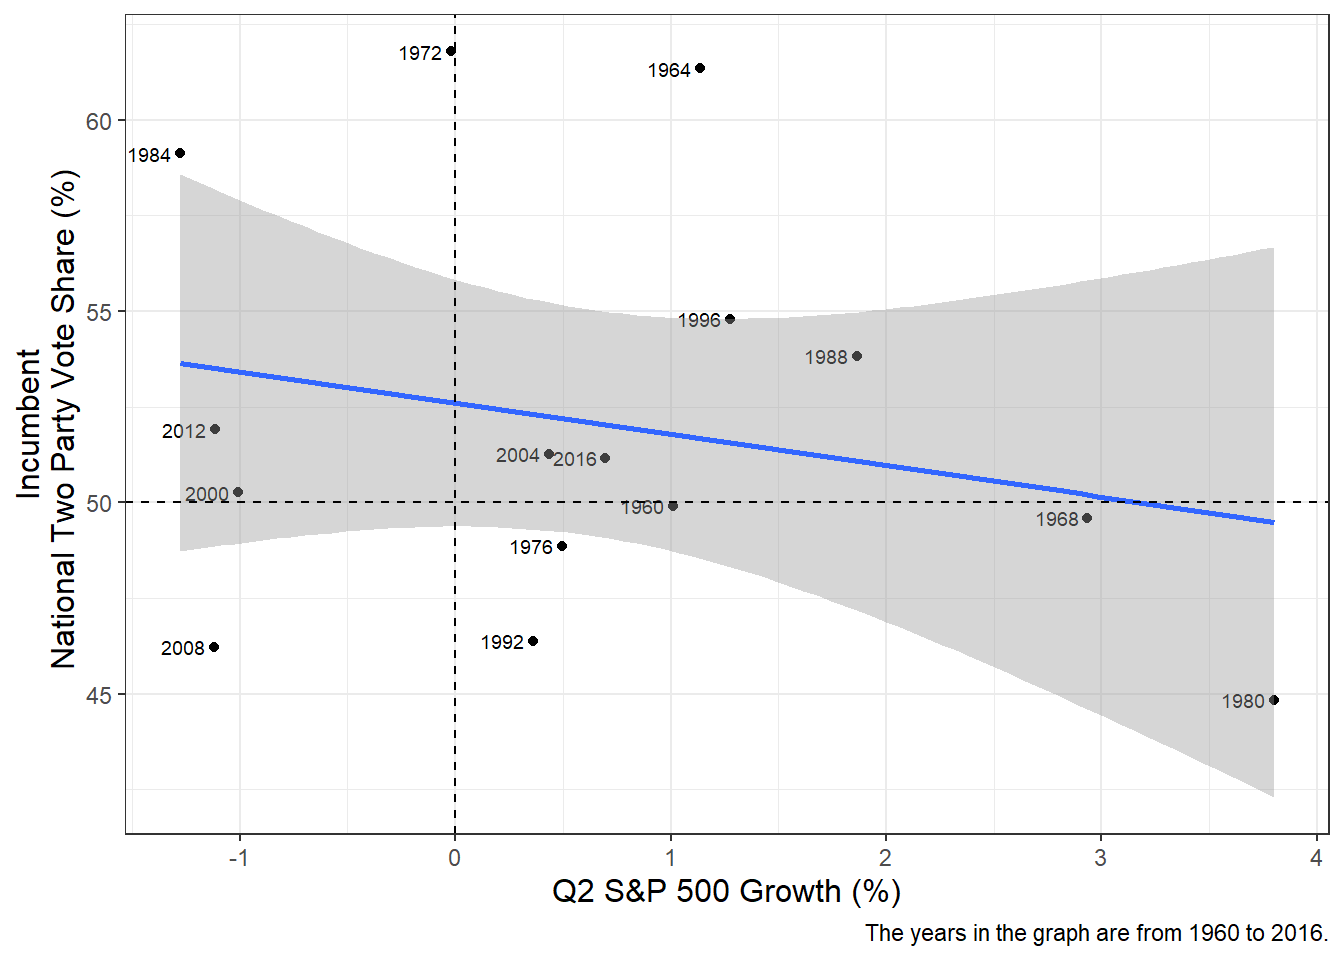
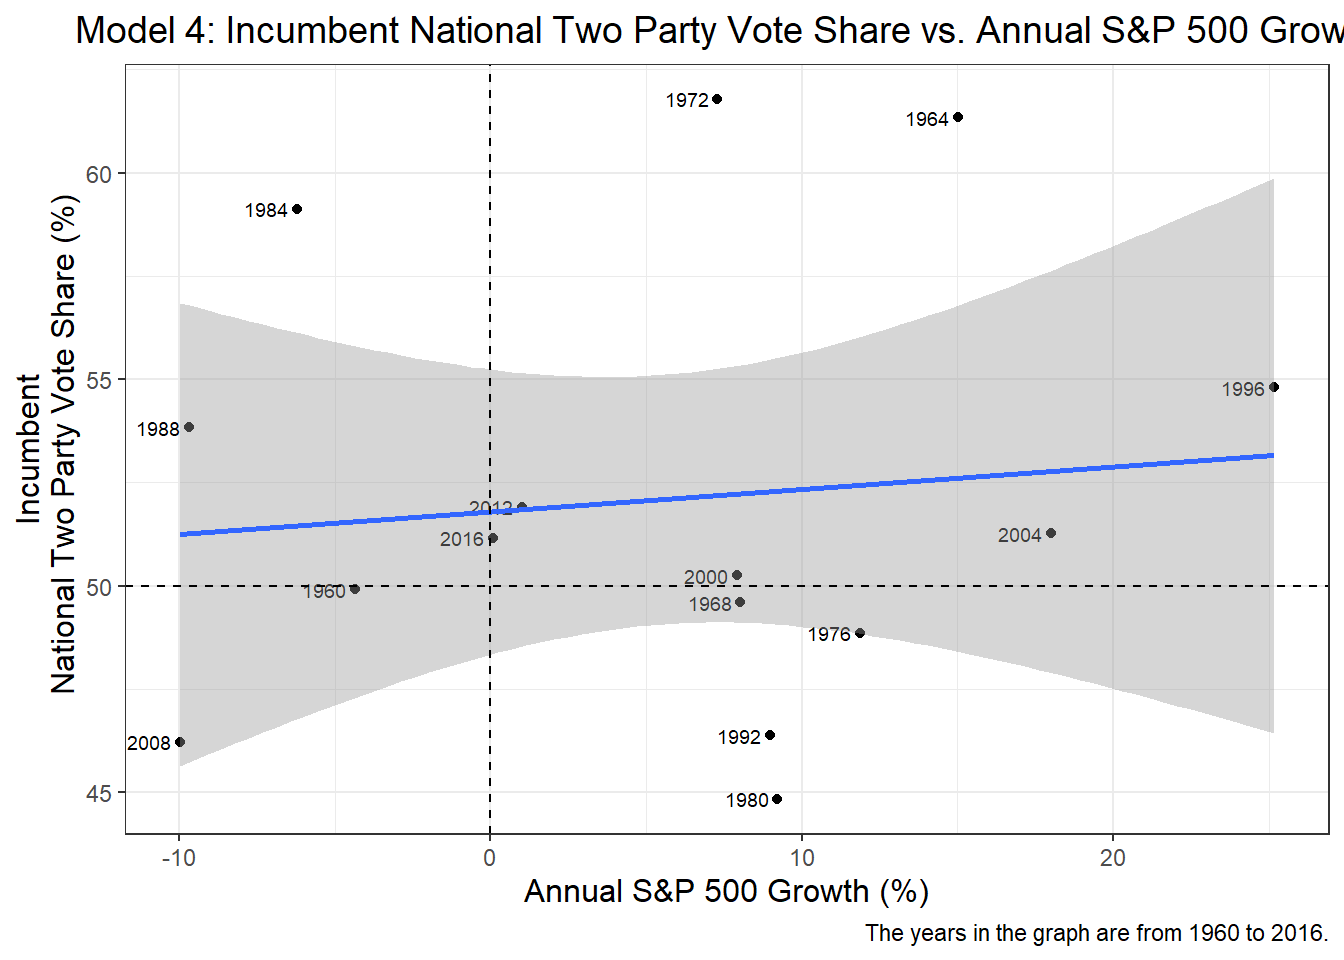
finished post 2

diff --git a/public/post/2024/09/16/post-2-modeling-using-the-economy/index.html b/public/post/2024/09/16/post-2-modeling-using-the-economy/index.html
@@ -35,9 +35,16 @@
 
 <main>
 <h1 id="introduction">Introduction</h1>
-<p>Data Limitations</p>
+<p>The economy is often cited as a core &lsquo;fundamental&rsquo; in predicting election outcomes. A strong economy typically suggests that the incumbent party is likely to win and vice versa. In some elections, like in 1980, where rampant inflation—significantly rising gas prices—dominated, it was clear that incumbent Jimmy Carter would lose due to the weak economy. However, in other elections, such as 2012 or 2016, it was less clear whether the economy was strong enough to predict an incumbent party victory.</p>
+<p>Voters&rsquo; interactions with the economy can influence their votes in various ways. Some may be &lsquo;pocketbook voters,&rsquo; supporting incumbents when they are personally better off. Others may focus on macroeconomic issues, such as GDP growth or unemployment rates, that may not directly affect them but could still influence their vote through sociotropic considerations.</p>
+<p>It is also unclear which economic timeframe is most important in shaping voters&rsquo; decisions. Does the economy’s performance right before the election matter most? Or does the entire term or just the year leading up to the election have a greater impact on vote share?</p>
+<p>To explore some of these questions, I created six models that examine economic factors relative to incumbent two-party vote share. The first two models measure the percent change in real disposable personal income (RDPI), one of the most common metrics for predicting elections. The first model looks at the increase from the end of Quarter 1 to the end of Quarter 2 in an election year. Typically, data from Quarter 2 to Quarter 3 would be preferred. Still, because I aim to use this data to predict the 2024 election outcome, I am using Quarter 2 as the latest available data to match current 2024 figures. The second RDPI model looks at percent growth over the course of a year, from the end of Q2 one year before the election to the end of Q2 in the election year. For example, the first point in the dataset measures growth from Q2 1959 to Q2 1960.</p>
+<p>In addition to RDPI, I developed two models each for quarterly and annual percent growth in unemployment and the S&amp;P 500. These factors offer a scale of how much voters care about personal wealth versus macroeconomic health. RDPI is theoretically the most personally relevant, the S&amp;P 500 falls somewhere in between, and unemployment most represents sociotropic concerns.</p>
+<p>Before diving into the models, I want to clarify that I used the same years for each dataset, starting from 1960—the first election with complete data. I also excluded 2020 from all models due to the massive Q2 economic decline caused by the COVID-19 pandemic, which is an anomaly that wouldn’t be expected in a non-pandemic election year. While these limitations certainly affect the results, I believe they provide the most representative picture of an average presidential election.</p>
 <h1 id="real-disposable-personal-income-growth">Real Disposable Personal Income Growth</h1>
 <img src="https://example.org/post/2024/09/16/post-2-modeling-using-the-economy/index_files/figure-html/unnamed-chunk-6-1.png" width="672" />
+<img src="https://example.org/post/2024/09/16/post-2-modeling-using-the-economy/index_files/figure-html/unnamed-chunk-7-1.png" width="672" />
+<p>Both the annual and quarterly RDPI growth models show a similar trend, with a slightly positive slope, indicating a direct relationship between RDPI growth and election outcomes. A cursory glance suggests that the annual model has a larger coefficient, which is confirmed by the data below (1.49 vs. 0.7). Interestingly, the annual model also has a significantly lower p-value and a higher R-squared value (0.374 vs. 0.22 for the quarterly model). These figures suggest that the annual model is a better predictor than the quarterly model, as it explains more of the variance in the election outcome. However, with an R-squared of 0.374, it is clear that neither model accounts for enough of the election dynamics to serve as a strong standalone predictor.</p>
 <table style="border-collapse:collapse; border:none;">
 <caption style="font-weight: bold; text-align:left;">Regression Table for Quarterly RDPI Growth (1960-2016)</caption>
 <tr>
@@ -75,7 +82,6 @@
 <td style=" padding:0.2cm; text-align:left; vertical-align:top; padding-top:0.1cm; padding-bottom:0.1cm; text-align:left;" colspan="4">0.220 / 0.160</td>
 </tr>
 </table>
-<img src="https://example.org/post/2024/09/16/post-2-modeling-using-the-economy/index_files/figure-html/unnamed-chunk-8-1.png" width="672" />
 <table style="border-collapse:collapse; border:none;">
 <caption style="font-weight: bold; text-align:left;">Regression Table for Annual RDPI Growth (1960-2016)</caption>
 <tr>
@@ -113,34 +119,12 @@
 <td style=" padding:0.2cm; text-align:left; vertical-align:top; padding-top:0.1cm; padding-bottom:0.1cm; text-align:left;" colspan="4">0.374 / 0.325</td>
 </tr>
 </table>
-<p>Table: <span id="tab:unnamed-chunk-10"></span>Table 1: <strong>Predicted 2024 Incumbent
-National Popular Two Party Vote Share based on RDPI Growth</strong></p>
-<table>
-  <thead>
-      <tr>
-          <th style="text-align: left">Independent Variable</th>
-          <th style="text-align: right">Predicted Two Party Vote Share</th>
-          <th style="text-align: right">Lower Bound (95% CI)</th>
-          <th style="text-align: right">Upper Bound (95% CI)</th>
-      </tr>
-  </thead>
-  <tbody>
-      <tr>
-          <td style="text-align: left">Quarterly RDPI Growth</td>
-          <td style="text-align: right">49.91</td>
-          <td style="text-align: right">38.90</td>
-          <td style="text-align: right">60.91</td>
-      </tr>
-      <tr>
-          <td style="text-align: left">Annual RDPI Growth</td>
-          <td style="text-align: right">47.88</td>
-          <td style="text-align: right">37.73</td>
-          <td style="text-align: right">58.03</td>
-      </tr>
-  </tbody>
-</table>
 <h1 id="sp-500-growth">S&amp;P 500 Growth</h1>
+<img src="https://example.org/post/2024/09/16/post-2-modeling-using-the-economy/index_files/figure-html/unnamed-chunk-10-1.png" width="672" />
 <img src="https://example.org/post/2024/09/16/post-2-modeling-using-the-economy/index_files/figure-html/unnamed-chunk-11-1.png" width="672" />
+<p>These graphs were quite unexpected for me. I initially thought the S&amp;P 500 would be a strong indicator of how most Americans perceive the economy, given that it is reported daily by nearly every news source and many Americans have a significant personal stake in its performance, especially through retirement savings tied to the S&amp;P 500. However, the nearly flat lines in both graphs and the large standard errors indicate that the S&amp;P 500 is a poor predictor of election outcomes.</p>
+<p>Looking at the tables, the quarterly growth shows a slight inverse relationship of -0.82, which doesn&rsquo;t make much sense, though this result can largely be disregarded due to the high p-value and the low R-squared of 0.053. The annual model shows almost no relationship between two-party vote share and annual S&amp;P 500 growth, with similarly large p-values and inconsequential R-squared values.</p>
+<p>Overall, while the S&amp;P 500 may have value in models that aggregate multiple economic variables, it is clear that it performs poorly as a standalone predictor of election outcomes.</p>
 <table style="border-collapse:collapse; border:none;">
 <caption style="font-weight: bold; text-align:left;">Regression Table for Quarterly S&P 500 Growth (1960-2016)</caption>
 <tr>
@@ -178,7 +162,6 @@ National Popular Two Party Vote Share based on RDPI Growth</strong></p>
 <td style=" padding:0.2cm; text-align:left; vertical-align:top; padding-top:0.1cm; padding-bottom:0.1cm; text-align:left;" colspan="4">0.053 / -0.020</td>
 </tr>
 </table>
-<img src="https://example.org/post/2024/09/16/post-2-modeling-using-the-economy/index_files/figure-html/unnamed-chunk-13-1.png" width="672" />
 <table style="border-collapse:collapse; border:none;">
 <caption style="font-weight: bold; text-align:left;">Regression Table for Annual S&P 500 Growth (1960-2016)</caption>
 <tr>
@@ -217,7 +200,10 @@ National Popular Two Party Vote Share based on RDPI Growth</strong></p>
 </tr>
 </table>
 <h1 id="unemployment-growth">Unemployment Growth</h1>
+<img src="https://example.org/post/2024/09/16/post-2-modeling-using-the-economy/index_files/figure-html/unnamed-chunk-14-1.png" width="672" />
 <img src="https://example.org/post/2024/09/16/post-2-modeling-using-the-economy/index_files/figure-html/unnamed-chunk-15-1.png" width="672" />
+<p>Unemployment growth also proved surprising, though for the opposite reason. I chose to focus on unemployment rather than GDP as a test of macroeconomic conditions, since unemployment is typically more frequently reported in the news than GDP, as evidenced by its relevance in Tuesday’s debate. Many Americans who vote based on sociotropic conditions may be more influenced by unemployment than GDP.</p>
+<p>Both graphs show a strong inverse relationship between unemployment growth and two-party vote share. Looking at the tables, we see that a one percent reduction in unemployment is associated with a 0.6 increase in two-party vote share for the incumbent party. The annual model displayed a smaller coefficient of -0.23. Both models were statistically significant at the 0.05 level according to their p-values, and they had fairly strong R-squared values: 0.405 for the quarterly model and 0.38 for the annual model. Quarterly unemployment growth had the highest R-squared value of all six models analyzed.</p>
 <table style="border-collapse:collapse; border:none;">
 <caption style="font-weight: bold; text-align:left;">Regression Table for Quarterly Unemployment Growth (1960-2016)</caption>
 <tr>
@@ -255,7 +241,6 @@ National Popular Two Party Vote Share based on RDPI Growth</strong></p>
 <td style=" padding:0.2cm; text-align:left; vertical-align:top; padding-top:0.1cm; padding-bottom:0.1cm; text-align:left;" colspan="4">0.405 / 0.359</td>
 </tr>
 </table>
-<img src="https://example.org/post/2024/09/16/post-2-modeling-using-the-economy/index_files/figure-html/unnamed-chunk-17-1.png" width="672" />
 <table style="border-collapse:collapse; border:none;">
 <caption style="font-weight: bold; text-align:left;">Regression Table for Annual Unemployment Growth (1960-2016)</caption>
 <tr>
@@ -293,6 +278,34 @@ National Popular Two Party Vote Share based on RDPI Growth</strong></p>
 <td style=" padding:0.2cm; text-align:left; vertical-align:top; padding-top:0.1cm; padding-bottom:0.1cm; text-align:left;" colspan="4">0.380 / 0.332</td>
 </tr>
 </table>
+<h1 id="predictions-and-concluding-thoughts">Predictions and Concluding Thoughts</h1>
+<p>Given its poor in-sample model fit, I decided not to use the S&amp;P 500 as a predictor for the election. All the economic predictors suggest a Donald Trump victory, but at a 95% confidence interval, an extremely wide range of outcomes is possible.</p>
+<p>Table: <span id="tab:unnamed-chunk-18"></span>Table 1: <strong>Predicted 2024 Incumbent
+National Popular Two Party Vote Share based on RDPI Growth</strong></p>
+<table>
+  <thead>
+      <tr>
+          <th style="text-align: left">Independent Variable</th>
+          <th style="text-align: right">Predicted Two Party Vote Share</th>
+          <th style="text-align: right">Lower Bound (95% CI)</th>
+          <th style="text-align: right">Upper Bound (95% CI)</th>
+      </tr>
+  </thead>
+  <tbody>
+      <tr>
+          <td style="text-align: left">Quarterly RDPI Growth</td>
+          <td style="text-align: right">49.91</td>
+          <td style="text-align: right">38.90</td>
+          <td style="text-align: right">60.91</td>
+      </tr>
+      <tr>
+          <td style="text-align: left">Annual RDPI Growth</td>
+          <td style="text-align: right">47.88</td>
+          <td style="text-align: right">37.73</td>
+          <td style="text-align: right">58.03</td>
+      </tr>
+  </tbody>
+</table>
 <p>Table: <span id="tab:unnamed-chunk-19"></span>Table 2: <strong>Predicted 2024 Incumbent
 National Popular Two Party Vote Share based on Unemployment Growth</strong></p>
 <table>
@@ -319,6 +332,7 @@ National Popular Two Party Vote Share based on Unemployment Growth</strong></p>
       </tr>
   </tbody>
 </table>
+<p>Overall, I believe the best approach to using economic predictors is to aggregate multiple variables, such as RDPI growth and unemployment growth, and weigh them accordingly as part of a larger model that also incorporates polling and other fundamentals. It’s clear that no single economic factor is sufficient to predict an election, nor is there a strong preference between factors that affect personal wealth versus macroeconomic conditions. The highest R-squared any of the models achieved as 0.4, meaning around 60% of the variance in elections could not be accounted for. Of course, multicollinearity would be a significant issue in any model using multiple economic factors, so adjustments to account for it would be necessary</p>
 
 </main>
 

diff --git a/public/post/2024/09/09/post-1/index.html b/public/post/2024/09/09/post-1/index.html
@@ -3,7 +3,7 @@
   <head>
     <meta charset="utf-8">
     <meta name="viewport" content="width=device-width, initial-scale=1">
-    <title>Blog Post 1 | A minimal Hugo website</title>
+    <title>Post #1: Defining the Swing States | A minimal Hugo website</title>
     <link rel="stylesheet" href="/css/style.css" />
     <link rel="stylesheet" href="/css/fonts.css" />
     
@@ -28,7 +28,7 @@
     </nav>
 
 <div class="article-meta">
-<h1><span class="title">Blog Post 1</span></h1>
+<h1><span class="title">Post #1: Defining the Swing States</span></h1>
 <h2 class="author">Avi Agarwal</h2>
 <h2 class="date">2024/09/09</h2>
 </div>

diff --git a/public/index.html b/public/index.html
@@ -46,7 +46,7 @@
   
   <li>
     <span class="date">2024/09/09</span>
-    <a href="/post/2024/09/09/post-1/">Blog Post 1</a>
+    <a href="/post/2024/09/09/post-1/">Post #1: Defining the Swing States</a>
   </li>
   
 </ul>

diff --git a/public/post/index.html b/public/post/index.html
@@ -45,7 +45,7 @@
   
   <li>
     <span class="date">2024/09/09</span>
-    <a href="/post/2024/09/09/post-1/">Blog Post 1</a>
+    <a href="/post/2024/09/09/post-1/">Post #1: Defining the Swing States</a>
   </li>
   
 </ul>

diff --git a/content/post/2024-09-16-post-2-modeling-using-the-economy/index.md b/content/post/2024-09-16-post-2-modeling-using-the-economy/index.md
@@ -18,11 +18,28 @@ tags: []
 
 # Introduction
 
-Data Limitations
+The economy is often cited as a core 'fundamental' in predicting election outcomes. A strong economy typically suggests that the incumbent party is likely to win and vice versa. In some elections, like in 1980, where rampant inflation—significantly rising gas prices—dominated, it was clear that incumbent Jimmy Carter would lose due to the weak economy. However, in other elections, such as 2012 or 2016, it was less clear whether the economy was strong enough to predict an incumbent party victory.
+
+Voters' interactions with the economy can influence their votes in various ways. Some may be 'pocketbook voters,' supporting incumbents when they are personally better off. Others may focus on macroeconomic issues, such as GDP growth or unemployment rates, that may not directly affect them but could still influence their vote through sociotropic considerations.
+
+It is also unclear which economic timeframe is most important in shaping voters' decisions. Does the economy’s performance right before the election matter most? Or does the entire term or just the year leading up to the election have a greater impact on vote share?
+
+To explore some of these questions, I created six models that examine economic factors relative to incumbent two-party vote share. The first two models measure the percent change in real disposable personal income (RDPI), one of the most common metrics for predicting elections. The first model looks at the increase from the end of Quarter 1 to the end of Quarter 2 in an election year. Typically, data from Quarter 2 to Quarter 3 would be preferred. Still, because I aim to use this data to predict the 2024 election outcome, I am using Quarter 2 as the latest available data to match current 2024 figures. The second RDPI model looks at percent growth over the course of a year, from the end of Q2 one year before the election to the end of Q2 in the election year. For example, the first point in the dataset measures growth from Q2 1959 to Q2 1960.
+
+In addition to RDPI, I developed two models each for quarterly and annual percent growth in unemployment and the S&P 500. These factors offer a scale of how much voters care about personal wealth versus macroeconomic health. RDPI is theoretically the most personally relevant, the S&P 500 falls somewhere in between, and unemployment most represents sociotropic concerns.
+
+Before diving into the models, I want to clarify that I used the same years for each dataset, starting from 1960—the first election with complete data. I also excluded 2020 from all models due to the massive Q2 economic decline caused by the COVID-19 pandemic, which is an anomaly that wouldn’t be expected in a non-pandemic election year. While these limitations certainly affect the results, I believe they provide the most representative picture of an average presidential election.
+
 
 # Real Disposable Personal Income Growth
 
 <img src="{{< blogdown/postref >}}index_files/figure-html/unnamed-chunk-6-1.png" width="672" />
+
+<img src="{{< blogdown/postref >}}index_files/figure-html/unnamed-chunk-7-1.png" width="672" />
+
+
+Both the annual and quarterly RDPI growth models show a similar trend, with a slightly positive slope, indicating a direct relationship between RDPI growth and election outcomes. A cursory glance suggests that the annual model has a larger coefficient, which is confirmed by the data below (1.49 vs. 0.7). Interestingly, the annual model also has a significantly lower p-value and a higher R-squared value (0.374 vs. 0.22 for the quarterly model). These figures suggest that the annual model is a better predictor than the quarterly model, as it explains more of the variance in the election outcome. However, with an R-squared of 0.374, it is clear that neither model accounts for enough of the election dynamics to serve as a strong standalone predictor.
+
 
 <table style="border-collapse:collapse; border:none;">
 <caption style="font-weight: bold; text-align:left;">Regression Table for Quarterly RDPI Growth (1960-2016)</caption>
@@ -62,14 +79,6 @@ Data Limitations
 </tr>
 
 </table>
-
-
-
-
-
-
-
-<img src="{{< blogdown/postref >}}index_files/figure-html/unnamed-chunk-8-1.png" width="672" />
 
 <table style="border-collapse:collapse; border:none;">
 <caption style="font-weight: bold; text-align:left;">Regression Table for Annual RDPI Growth (1960-2016)</caption>
@@ -117,18 +126,18 @@ Data Limitations
 
 
 
-Table: <span id="tab:unnamed-chunk-10"></span>Table 1: **Predicted 2024 Incumbent
- National Popular Two Party Vote Share based on RDPI Growth**
-
-|Independent Variable  | Predicted Two Party Vote Share| Lower Bound (95% CI)| Upper Bound (95% CI)|
-|:---------------------|------------------------------:|--------------------:|--------------------:|
-|Quarterly RDPI Growth |                          49.91|                38.90|                60.91|
-|Annual RDPI Growth    |                          47.88|                37.73|                58.03|
 
 
 # S&P 500 Growth
-
+<img src="{{< blogdown/postref >}}index_files/figure-html/unnamed-chunk-10-1.png" width="672" />
 <img src="{{< blogdown/postref >}}index_files/figure-html/unnamed-chunk-11-1.png" width="672" />
+
+These graphs were quite unexpected for me. I initially thought the S&P 500 would be a strong indicator of how most Americans perceive the economy, given that it is reported daily by nearly every news source and many Americans have a significant personal stake in its performance, especially through retirement savings tied to the S&P 500. However, the nearly flat lines in both graphs and the large standard errors indicate that the S&P 500 is a poor predictor of election outcomes.
+
+Looking at the tables, the quarterly growth shows a slight inverse relationship of -0.82, which doesn't make much sense, though this result can largely be disregarded due to the high p-value and the low R-squared of 0.053. The annual model shows almost no relationship between two-party vote share and annual S&P 500 growth, with similarly large p-values and inconsequential R-squared values.
+
+Overall, while the S&P 500 may have value in models that aggregate multiple economic variables, it is clear that it performs poorly as a standalone predictor of election outcomes.
+
 
 <table style="border-collapse:collapse; border:none;">
 <caption style="font-weight: bold; text-align:left;">Regression Table for Quarterly S&P 500 Growth (1960-2016)</caption>
@@ -168,15 +177,6 @@ Table: <span id="tab:unnamed-chunk-10"></span>Table 1: **Predicted 2024 Incumben
 </tr>
 
 </table>
-
-
-
-
-
-
-
-<img src="{{< blogdown/postref >}}index_files/figure-html/unnamed-chunk-13-1.png" width="672" />
-
 <table style="border-collapse:collapse; border:none;">
 <caption style="font-weight: bold; text-align:left;">Regression Table for Annual S&P 500 Growth (1960-2016)</caption>
 <tr>
@@ -218,7 +218,12 @@ Table: <span id="tab:unnamed-chunk-10"></span>Table 1: **Predicted 2024 Incumben
 
 # Unemployment Growth
 
+<img src="{{< blogdown/postref >}}index_files/figure-html/unnamed-chunk-14-1.png" width="672" />
 <img src="{{< blogdown/postref >}}index_files/figure-html/unnamed-chunk-15-1.png" width="672" />
+
+Unemployment growth also proved surprising, though for the opposite reason. I chose to focus on unemployment rather than GDP as a test of macroeconomic conditions, since unemployment is typically more frequently reported in the news than GDP, as evidenced by its relevance in Tuesday’s debate. Many Americans who vote based on sociotropic conditions may be more influenced by unemployment than GDP.
+
+Both graphs show a strong inverse relationship between unemployment growth and two-party vote share. Looking at the tables, we see that a one percent reduction in unemployment is associated with a 0.6 increase in two-party vote share for the incumbent party. The annual model displayed a smaller coefficient of -0.23. Both models were statistically significant at the 0.05 level according to their p-values, and they had fairly strong R-squared values: 0.405 for the quarterly model and 0.38 for the annual model. Quarterly unemployment growth had the highest R-squared value of all six models analyzed.
 
 <table style="border-collapse:collapse; border:none;">
 <caption style="font-weight: bold; text-align:left;">Regression Table for Quarterly Unemployment Growth (1960-2016)</caption>
@@ -258,16 +263,6 @@ Table: <span id="tab:unnamed-chunk-10"></span>Table 1: **Predicted 2024 Incumben
 </tr>
 
 </table>
-
-
-
-
-
-
-
-
-<img src="{{< blogdown/postref >}}index_files/figure-html/unnamed-chunk-17-1.png" width="672" />
-
 <table style="border-collapse:collapse; border:none;">
 <caption style="font-weight: bold; text-align:left;">Regression Table for Annual Unemployment Growth (1960-2016)</caption>
 <tr>
@@ -308,10 +303,18 @@ Table: <span id="tab:unnamed-chunk-10"></span>Table 1: **Predicted 2024 Incumben
 </table>
 
 
+# Predictions and Concluding Thoughts
+
+Given its poor in-sample model fit, I decided not to use the S&P 500 as a predictor for the election. All the economic predictors suggest a Donald Trump victory, but at a 95% confidence interval, an extremely wide range of outcomes is possible.
 
 
+Table: <span id="tab:unnamed-chunk-18"></span>Table 1: **Predicted 2024 Incumbent
+ National Popular Two Party Vote Share based on RDPI Growth**
 
-
+|Independent Variable  | Predicted Two Party Vote Share| Lower Bound (95% CI)| Upper Bound (95% CI)|
+|:---------------------|------------------------------:|--------------------:|--------------------:|
+|Quarterly RDPI Growth |                          49.91|                38.90|                60.91|
+|Annual RDPI Growth    |                          47.88|                37.73|                58.03|
 
 
 Table: <span id="tab:unnamed-chunk-19"></span>Table 2: **Predicted 2024 Incumbent
@@ -321,5 +324,11 @@ Table: <span id="tab:unnamed-chunk-19"></span>Table 2: **Predicted 2024 Incumben
 |:-----------------------------|------------------------------:|--------------------:|--------------------:|
 |Quarterly Unemployment Growth |                          48.97|                39.33|                58.61|
 |Annual Unemployment Growth    |                          48.45|                38.49|                58.42|
+
+
+Overall, I believe the best approach to using economic predictors is to aggregate multiple variables, such as RDPI growth and unemployment growth, and weigh them accordingly as part of a larger model that also incorporates polling and other fundamentals. It’s clear that no single economic factor is sufficient to predict an election, nor is there a strong preference between factors that affect personal wealth versus macroeconomic conditions. The highest R-squared any of the models achieved as 0.4, meaning around 60% of the variance in elections could not be accounted for. Of course, multicollinearity would be a significant issue in any model using multiple economic factors, so adjustments to account for it would be necessary
+
+
+
 
 

diff --git a/content/post/2024-09-06-post-1/index.md b/content/post/2024-09-06-post-1/index.md
@@ -1,5 +1,5 @@
 ---
-title: Blog Post 1
+title: 'Post #1: Defining the Swing States'
 author: Avi Agarwal
 date: '2024-09-09'
 slug: post-1
